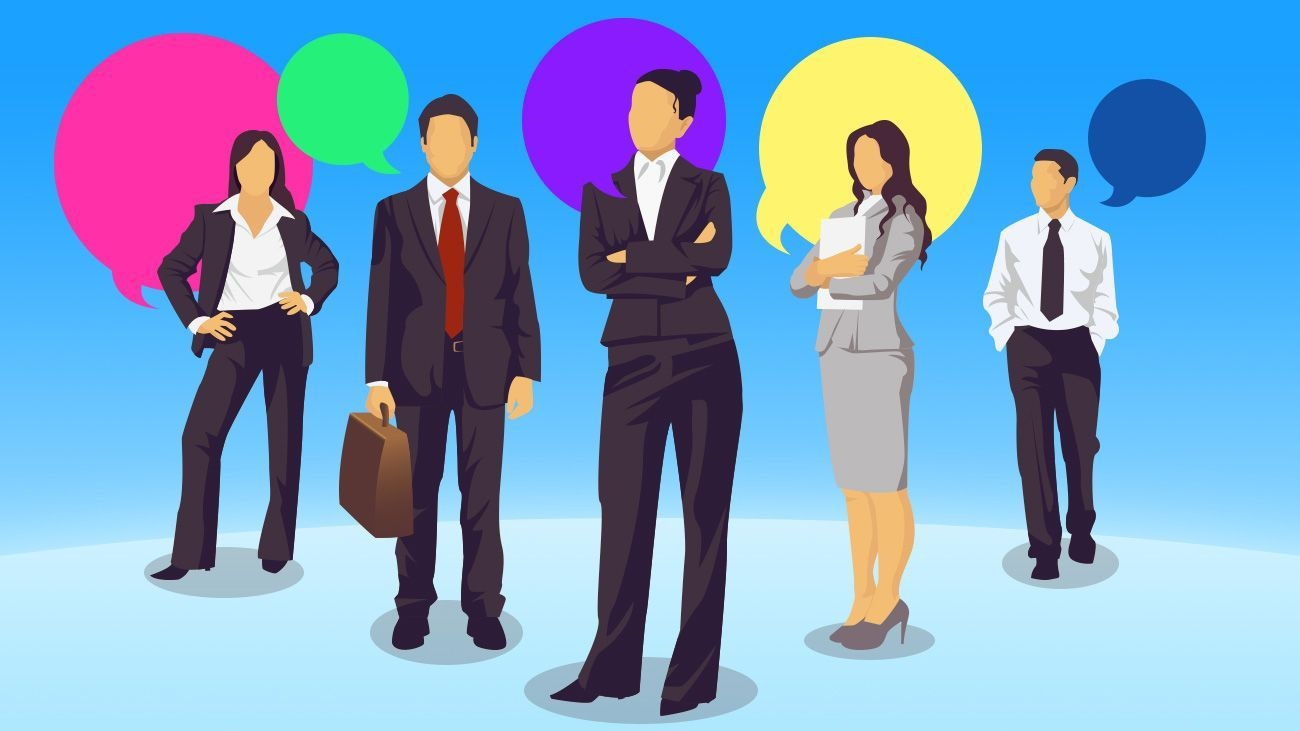
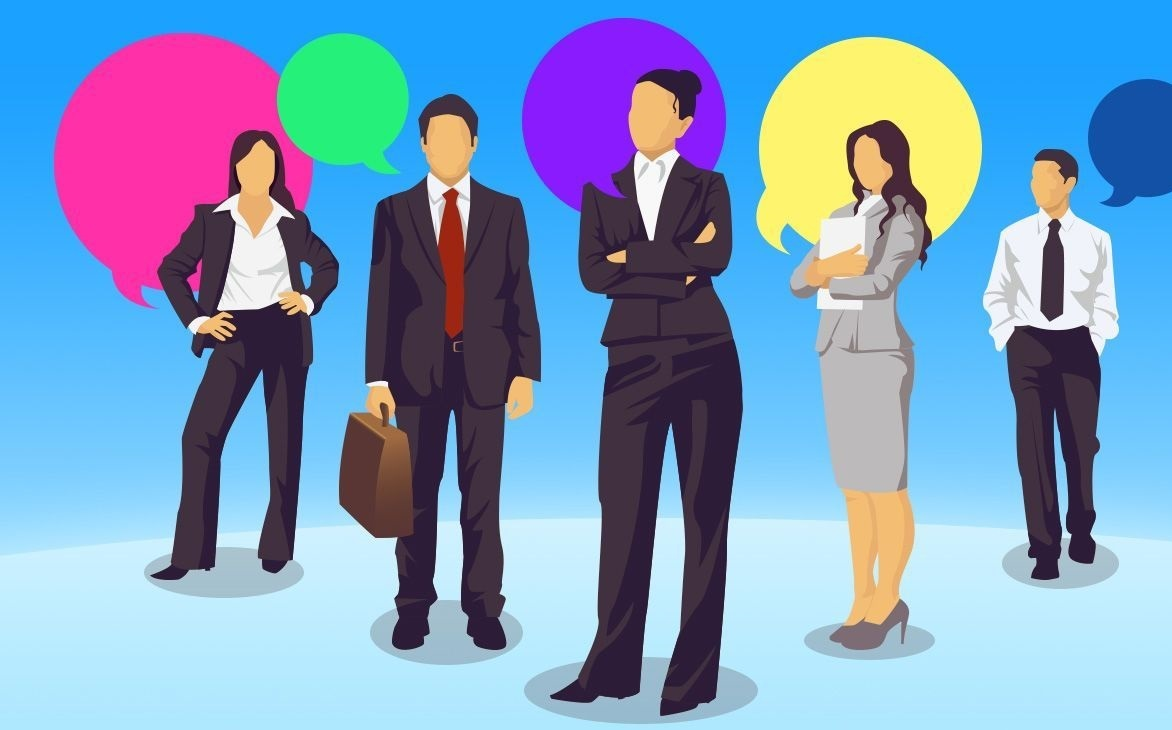
last change

diff --git a/index.html b/index.html
@@ -23,7 +23,7 @@
 <style>
 #container {
     position: relative;
-    max-width:650px;
+    max-width:630px;
     height:auto;
     width: auto\9;
     object-fit: cover;
@@ -911,7 +911,7 @@
          <area href="https://www.instagram.com/karthikanshu23/" target="_black" id="per5" onmouseout= "writeText1('')" onmouseover="writeText('Karhtik: USG Of Design.')" alt="per5" shape=rect coords="493,77,561,298">
         </map>
         <div id="container" style="background-color:black;">
-          <img src="img/people.png" alt="Avatar" id="image" style="width:650px;height:auto;background-color:black;" usemap="#map_example">
+          <img src="img/people.png" alt="Avatar" id="image" style="width:630px;height:auto;background-color:black;" usemap="#map_example">
           <div class="middle">
             <div id="text" style="color:white;"></div>
           </div>
